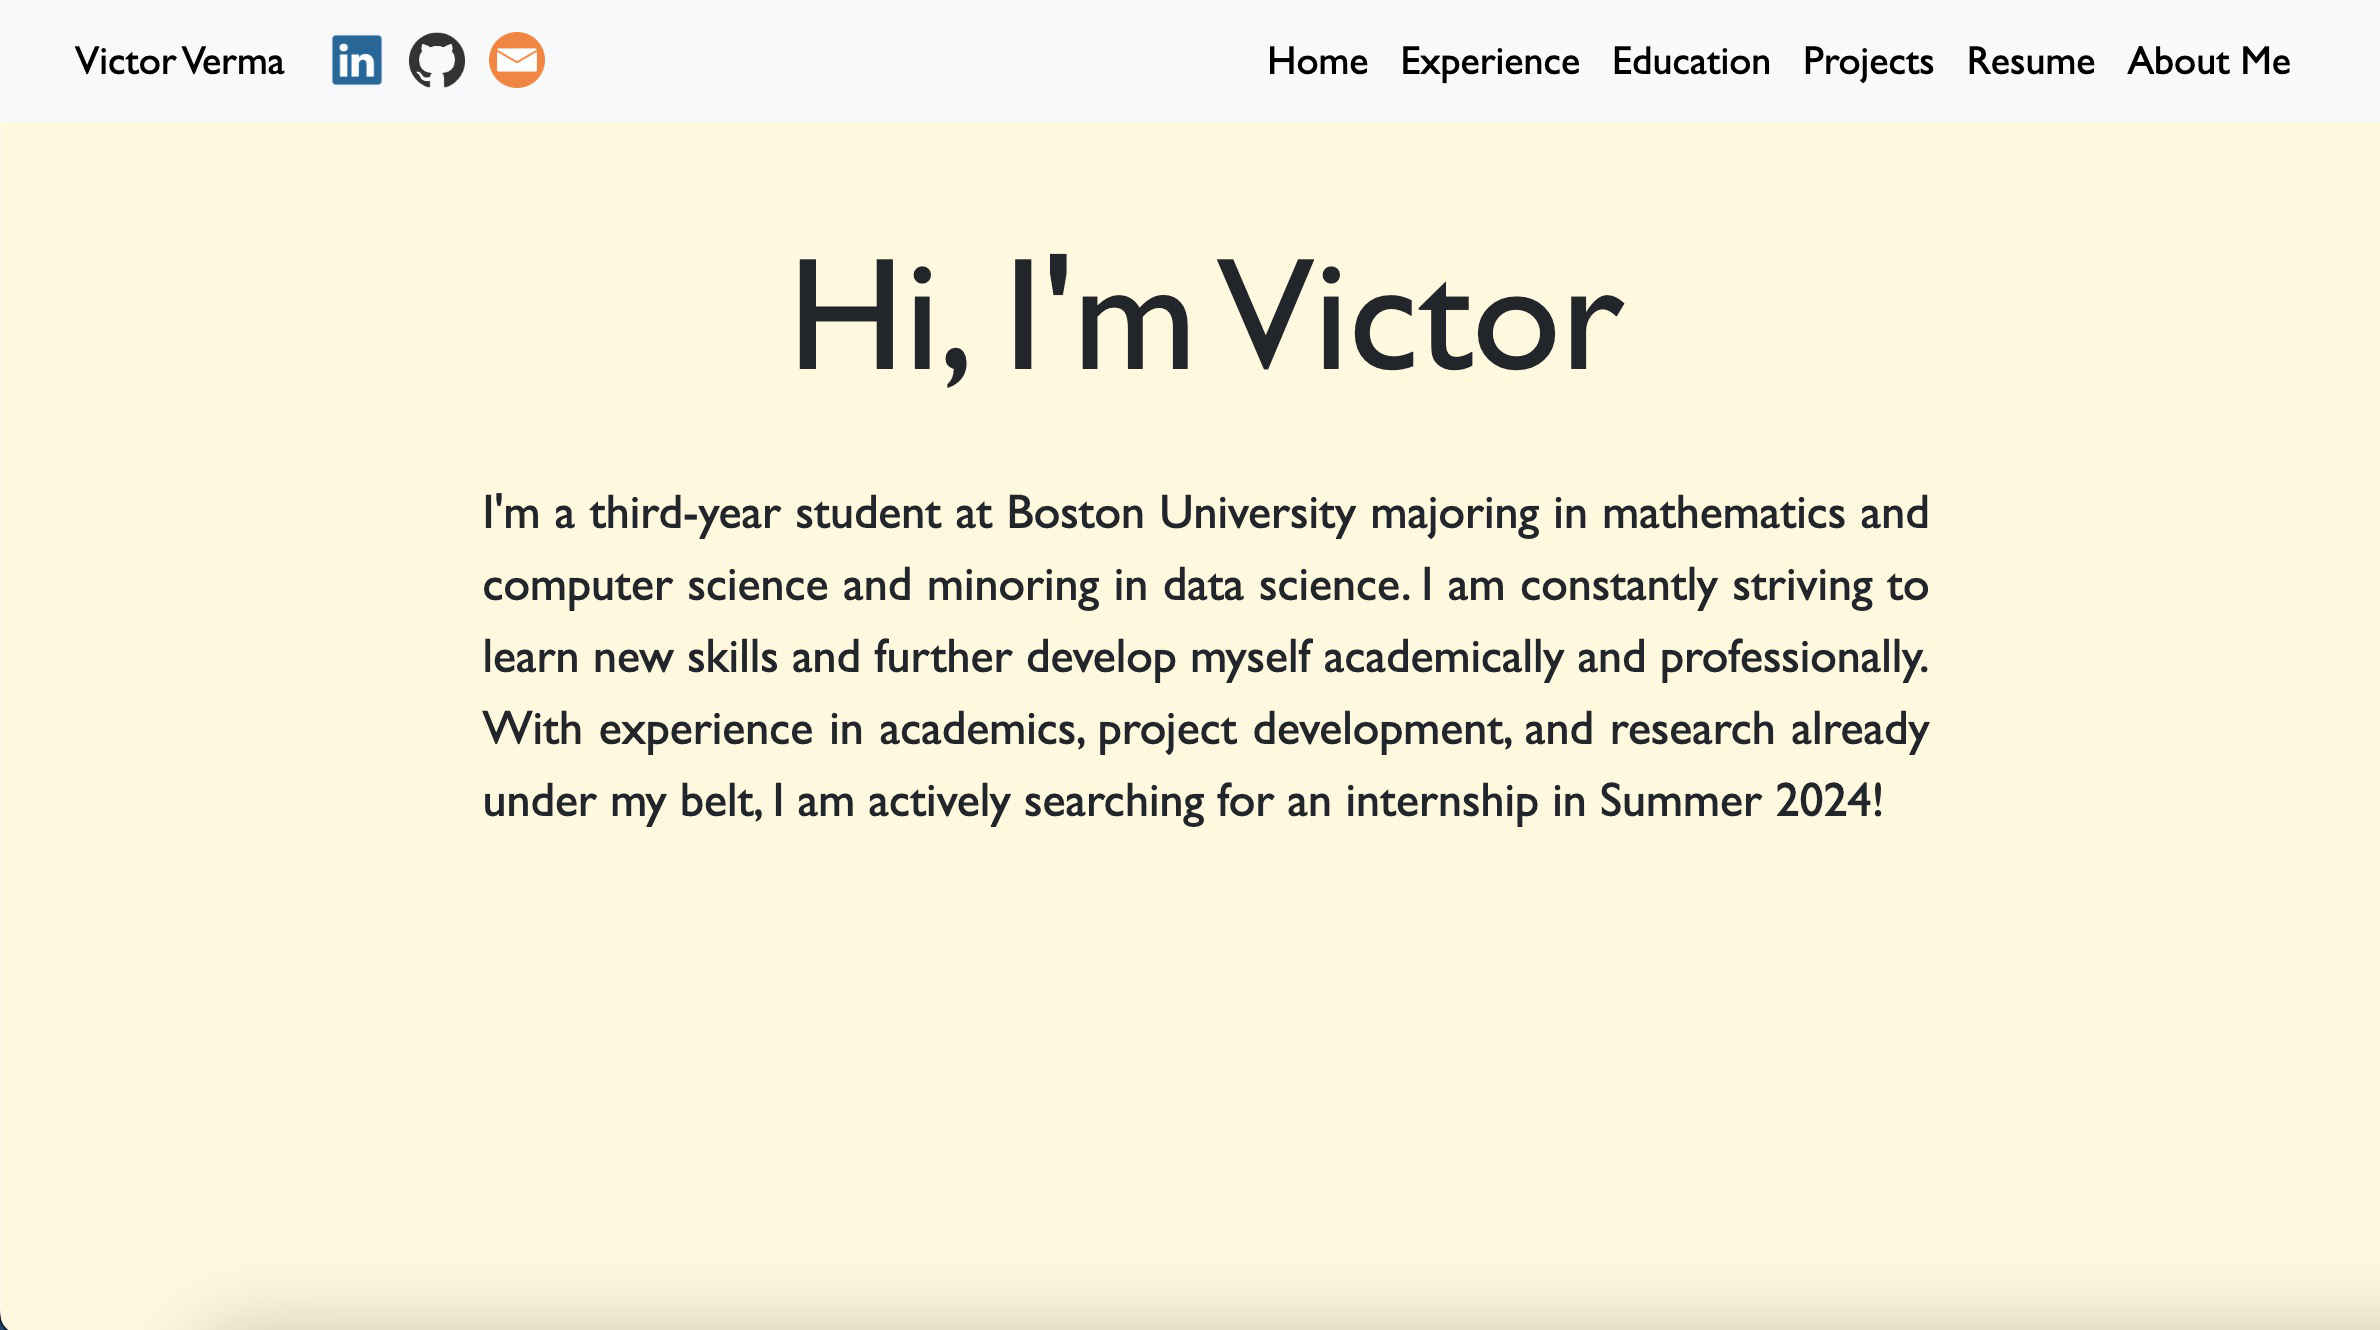
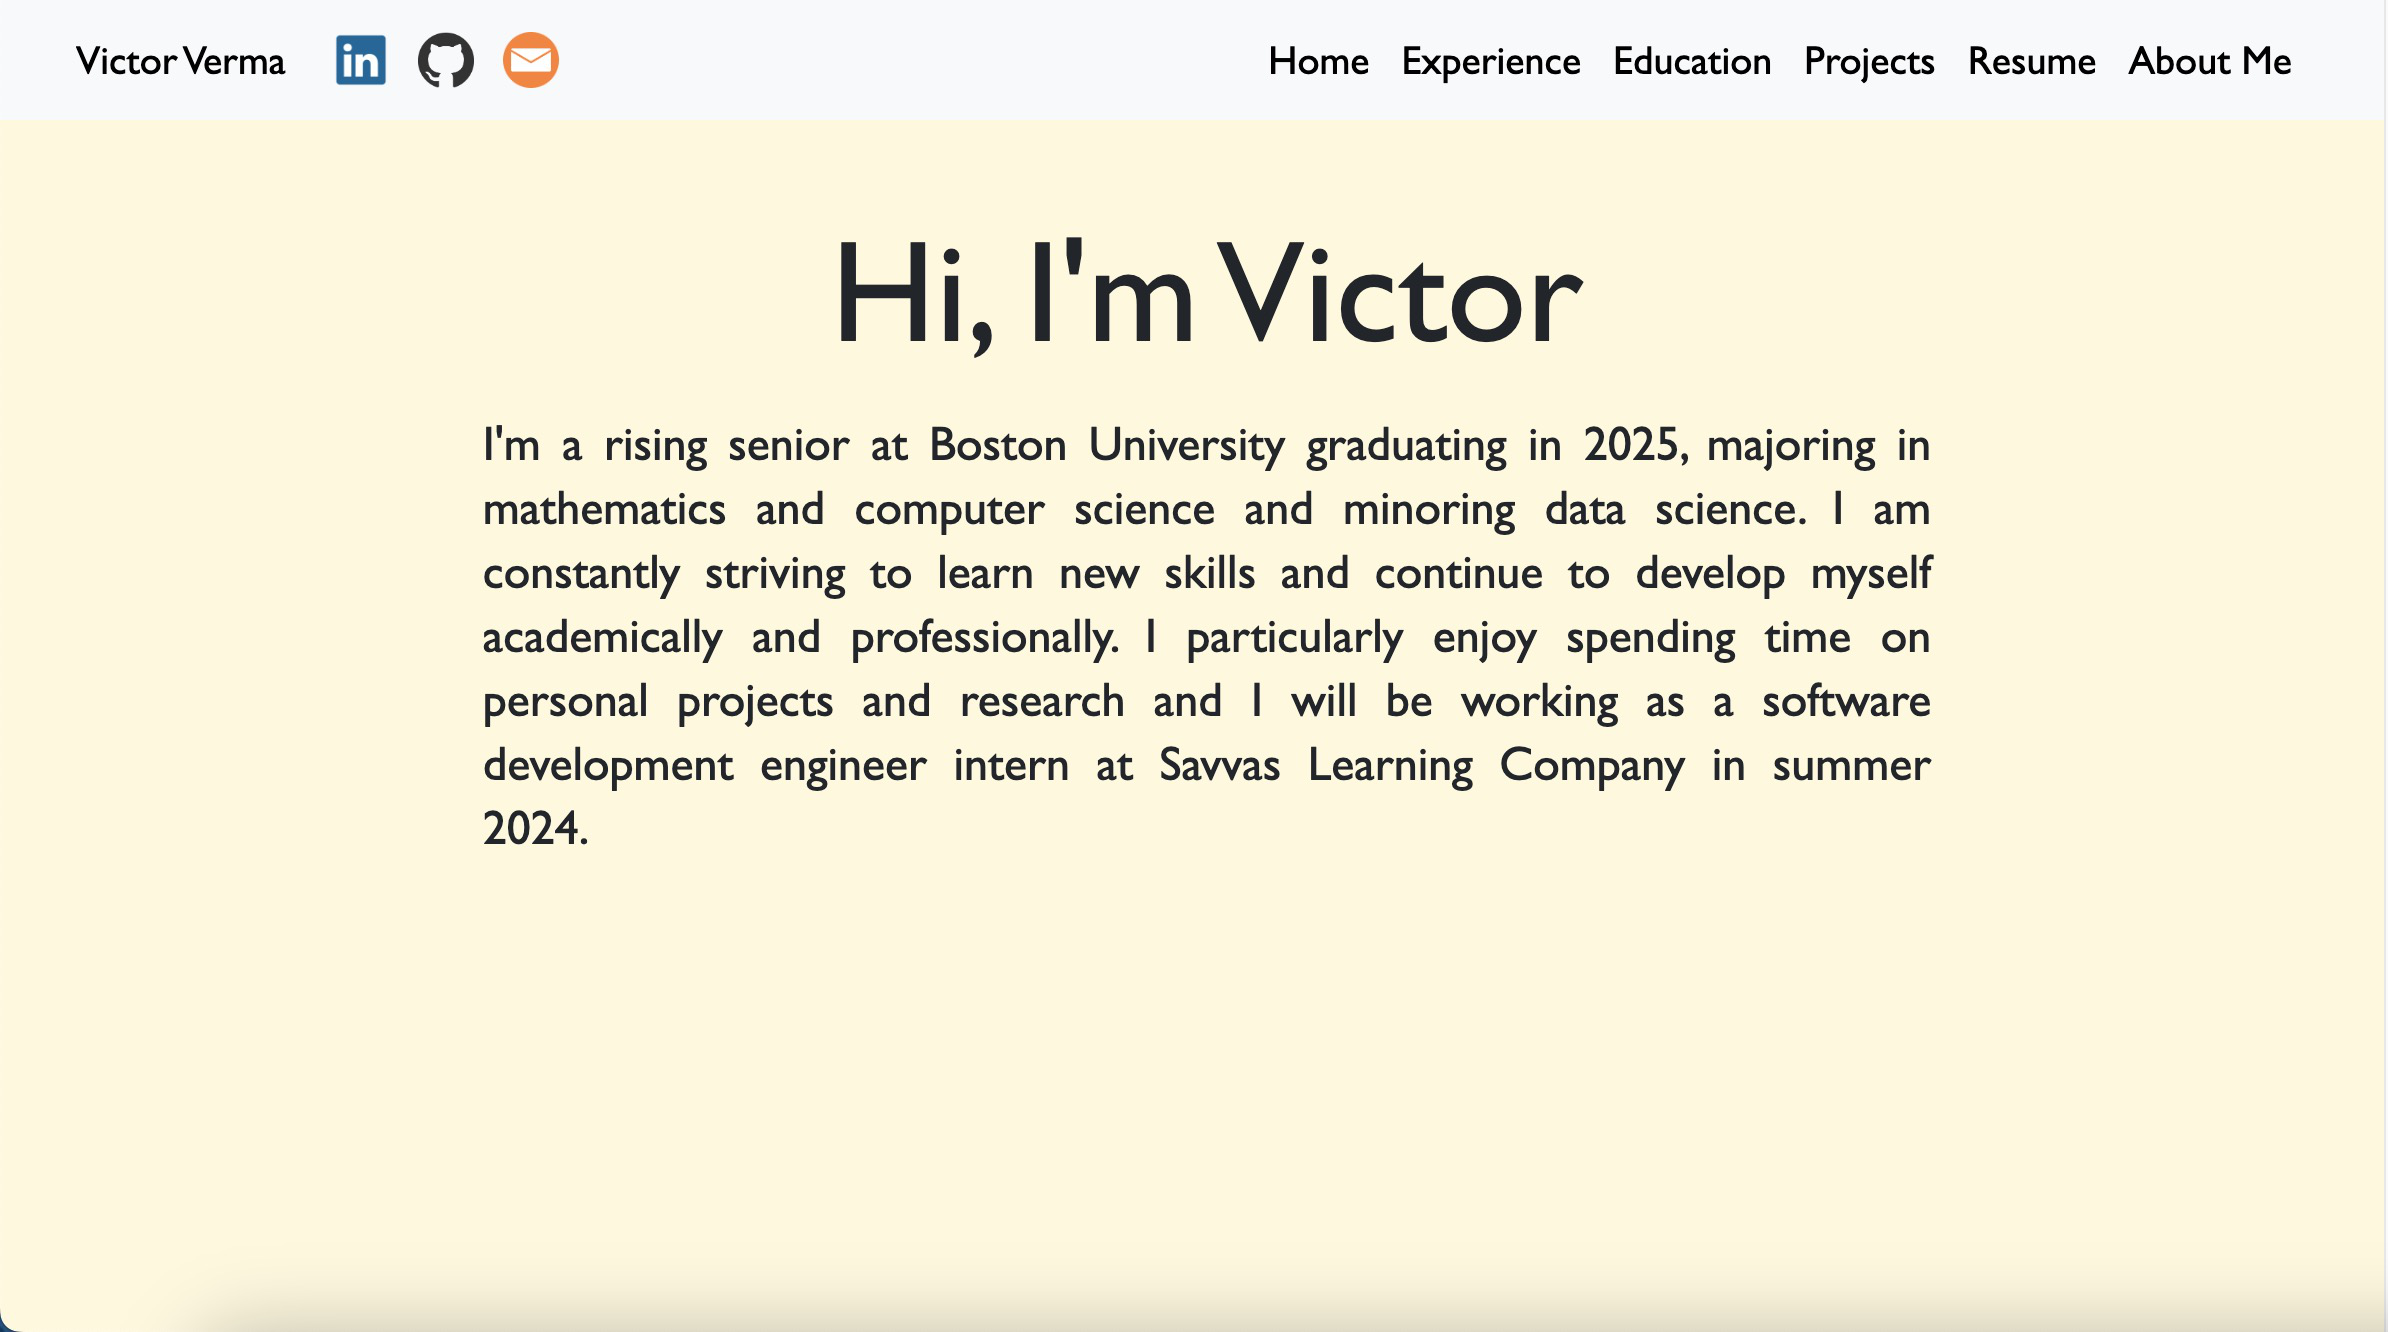
various updates

diff --git a/frontend/src/pages/home/Home.tsx b/frontend/src/pages/home/Home.tsx
@@ -9,13 +9,14 @@ const Home = () => {
             <div className="w-screen min-h-[80vh] mt-20 mb-[-125px] sm:mt-[110px] sm:mb-[-50px]">
                 <HomeTitle />
                 <p className="w-[65vw] m-auto pt-6 text-xl text-justify sm:w-[60vw] sm:text-2xl sm:mb-12 2xl:text-3xl">
-                    I'm a rising senior at Boston University majoring in
-                    mathematics and computer science and minoring in data
-                    science. I am constantly striving to learn new skills and
-                    further develop myself academically and professionally. I
-                    particularly enjoy both project development and research,
-                    and I'm a software development intern at Savvas Learning
-                    Company in 2024.
+                    I'm a rising senior at Boston University graduating in 2025,
+                    majoring in mathematics and computer science and minoring
+                    data science. I am constantly striving to learn new skills
+                    and continue to develop myself academically and
+                    professionally. I particularly enjoy spending time on
+                    personal projects and research and I will be working as a
+                    software development engineer intern at Savvas Learning
+                    Company in summer 2024.
                 </p>
             </div>
             <Footer />
